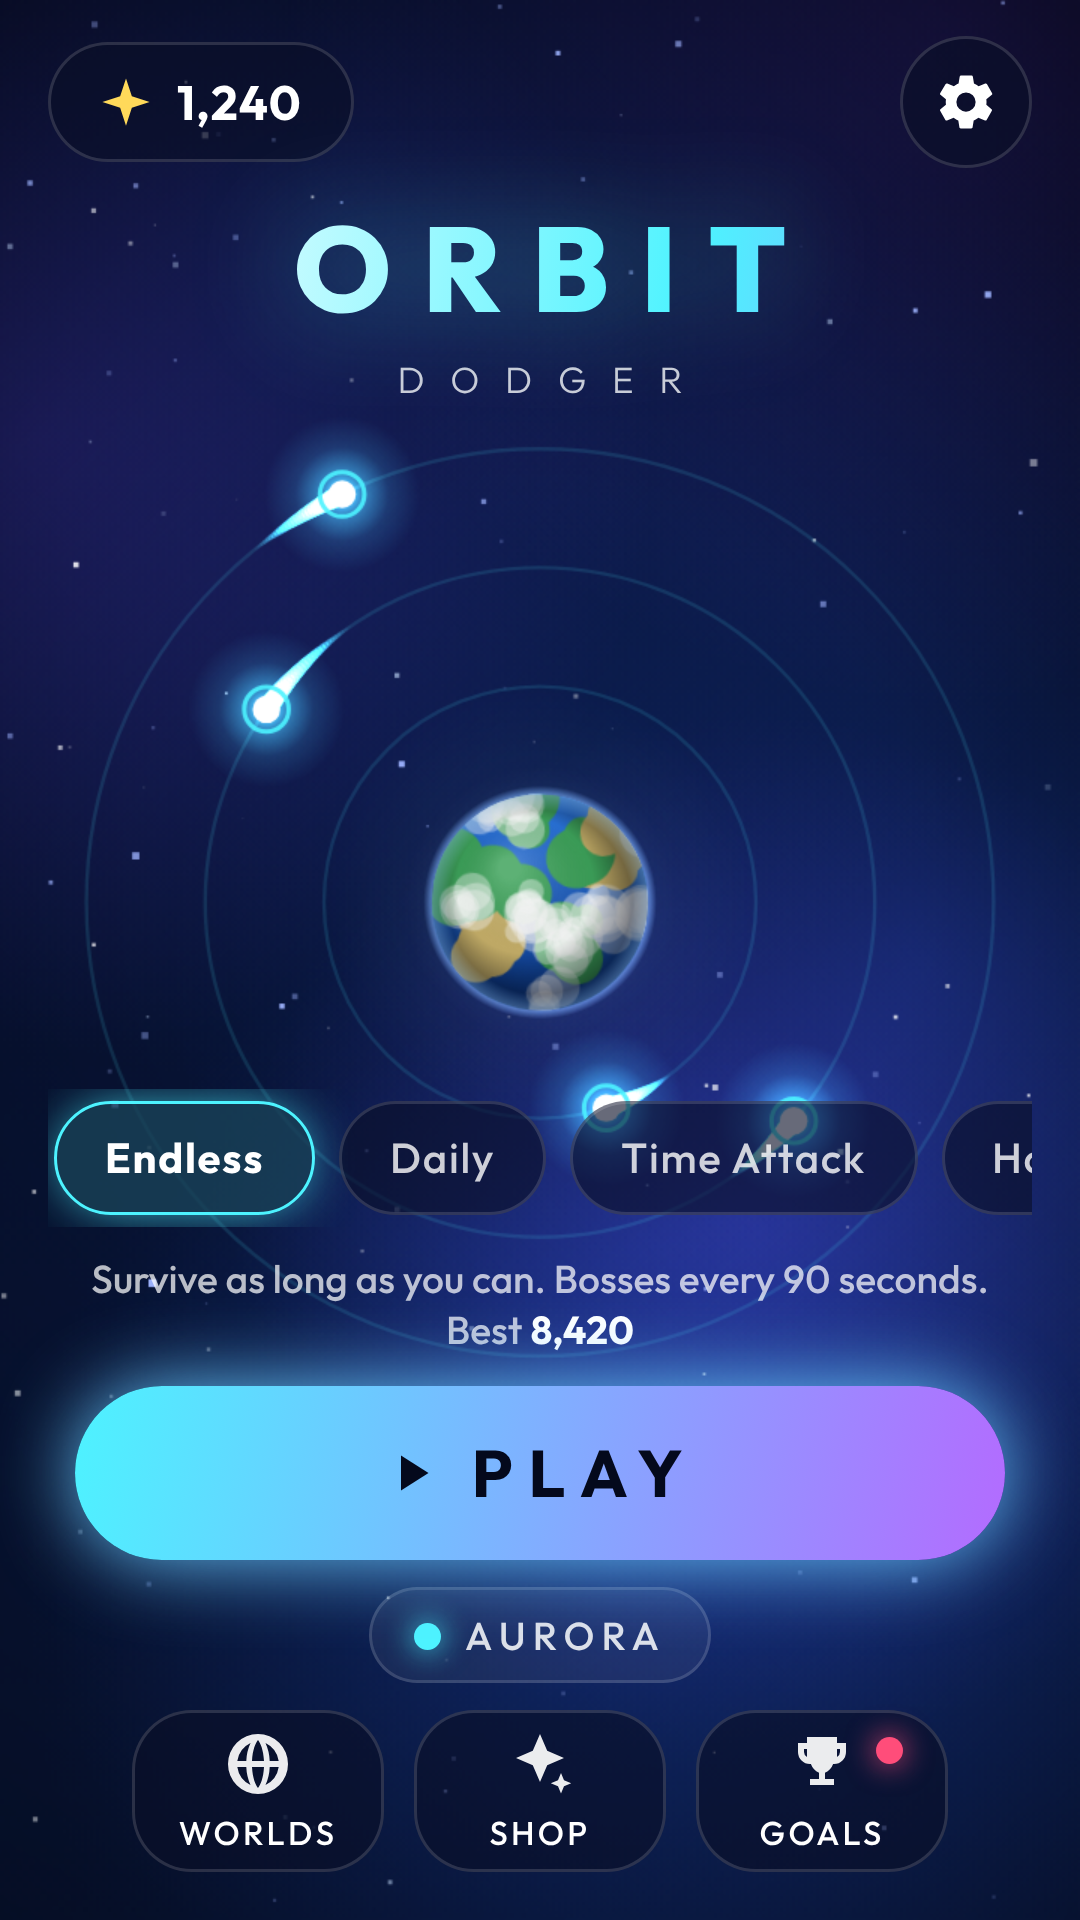
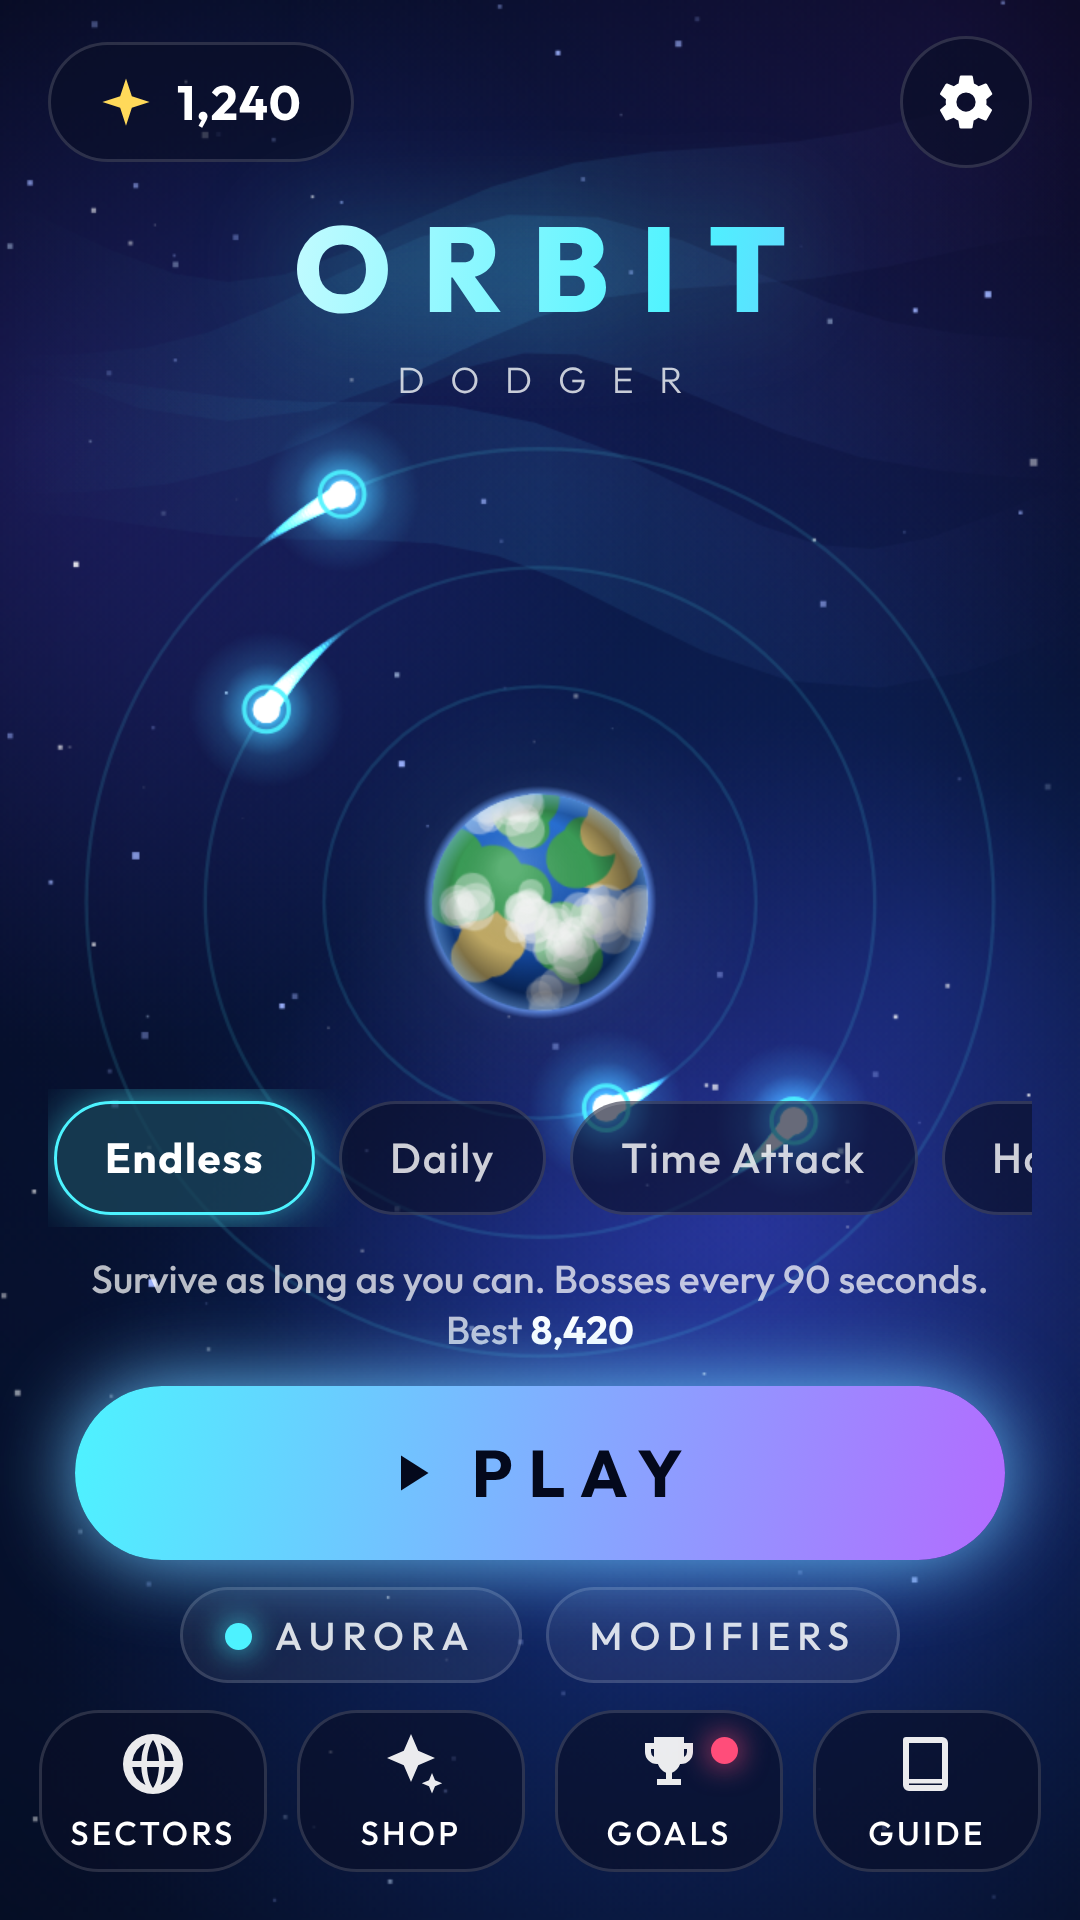
Docs, store listing, screenshots and music brief updated for sectors, planet hopping, events and modifiers
Claude-Session: https://claude.ai/code/session_016cK1Un3U2vpZFvp4VDKec1

Changed region(s): [[0.0611, 0.8125, 0.9167, 0.9688], [0.3667, 0.0938, 0.6417, 0.2188], [0.2444, 0.1875, 0.3056, 0.2188]]

diff --git a/docs/MUSIC_BRIEF.md b/docs/MUSIC_BRIEF.md
@@ -16,11 +16,8 @@ and the music gets more intense as your combo grows.
   first-beat offset, key and loudness over time, and wire it up.
 
 ## Tracks
-Keep the BPM and key close to these (I will measure the real values; they do not need to be perfect).
-
-### 1. Aurora (home world, calm start) : 108 BPM, A minor
-Style: `instrumental, synthwave, dreamy space electronic, 108 BPM, A minor, steady four-on-the-floor kick, soft pulsing bass, shimmering arpeggios, airy pads, hopeful, cinematic, strict tempo, no vocals`
-Lyrics box:
+One per sector. Keep the BPM and key close to these (the tool measures the real values; they do not need to be exact).
+Use this structure in the Lyrics box for each (adjust the first line):
 ```
 [Instrumental]
 [Intro - pads only, 8 bars]
@@ -32,24 +29,26 @@ Lyrics box:
 [Outro - fade to pads, 8 bars]
 ```
 
-### 2. Ember : 118 BPM, G minor
-Style: `instrumental, dark synthwave, driving analog bass, pulsing sequenced arpeggio, tense, volcanic, warm distorted synth stabs, 118 BPM, G minor, tight punchy drums, strict tempo, no vocals`
-Lyrics box: same structure as above.
+### 1. Aurora Reach (peaceful start): 108 BPM, A minor  -> `aurora`
+`instrumental, synthwave, dreamy space electronic, 108 BPM, A minor, steady four-on-the-floor kick, soft pulsing bass, shimmering arpeggios, airy pads, hopeful, cinematic, strict tempo, no vocals`
 
-### 3. Glacier : 114 BPM, C major
-Style: `instrumental, glacial electronic, crystalline bell arpeggios, glassy pads, clean sub bass, light crisp percussion, cold and serene, 114 BPM, C major, strict tempo, no vocals`
+### 2. Dust Belt (easy): 112 BPM, F minor pentatonic  -> `dust`
+`instrumental, dusty desert electronica, rolling percussion with shakers and toms, warm analog bass, plucked arpeggio, wide reverb pads, restless and adventurous, 112 BPM, F minor, strict tempo, no vocals`
 
-### 4. Void : 124 BPM, E minor
-Style: `instrumental, dark techno, hypnotic rolling sub bass, industrial percussion, eerie synth drones, minimal melodic motifs, menacing, 124 BPM, E minor, strict tempo, no vocals`
+### 3. Ember Rift (risky): 118 BPM, G minor  -> `ember`
+`instrumental, dark synthwave, driving analog bass, pulsing sequenced arpeggio, tense, volcanic, warm distorted synth stabs, 118 BPM, G minor, tight punchy drums, strict tempo, no vocals`
 
-### 5. Nebula (planned world) : 112 BPM, D dorian
-Style: `instrumental, psychedelic electronica, swirling modulated synths, warm bass, glittering arpeggios, wide stereo pads, colorful and dreamy, 112 BPM, D dorian, strict tempo, no vocals`
+### 4. Glacier Drift (risky): 114 BPM, C major  -> `glacier`
+`instrumental, glacial electronic, crystalline bell arpeggios, glassy pads, clean sub bass, light crisp percussion, cold and serene, 114 BPM, C major, strict tempo, no vocals`
 
-### 6. Solaris (planned world) : 126 BPM, F lydian
-Style: `instrumental, uplifting trance-influenced electronic, bright supersaws, pumping bass, euphoric but clean arpeggios, radiant, 126 BPM, F lydian, strict tempo, no vocals`
+### 5. Pulsar Storm (dangerous): 126 BPM, D minor  -> `pulsar`
+`instrumental, high-energy electro trance, pounding kick, electric sequenced arpeggios, crackling risers, urgent and stormy, bright saw leads in short phrases, 126 BPM, D minor, strict tempo, no vocals`
 
-### 7. Menu theme : 90 BPM, any minor key
-Style: `instrumental, ambient space music, slow evolving pads, soft bell melody, no drums, calm, 90 BPM, loopable, no vocals`
+### 6. Void Maw (deadly): 124 BPM, E minor  -> `void`
+`instrumental, dark techno, hypnotic rolling sub bass, industrial percussion, eerie synth drones, minimal melodic motifs, menacing, 124 BPM, E minor, strict tempo, no vocals`
+
+### 7. Menu theme: 90 BPM, any minor key  -> `menu`
+`instrumental, ambient space music, slow evolving pads, soft bell melody, no drums, calm, 90 BPM, loopable, no vocals`
 
 ### Optional extras
 * **Boss intensity** (Eclipse): for each track, a 60 second take with `same style, much more intense, heavy kick and bass, rising tension` at the same BPM and key, so it can be layered over the main track.

diff --git a/docs/STORE_LISTING.md b/docs/STORE_LISTING.md
@@ -2,38 +2,35 @@
 
 **App name (30):** Orbit Dodger: One-Tap Arcade
 
-**Short description (80):** Circle the planet. Flip, jump, graze. A beautiful one-thumb space dodger.
+**Short description (80):** Circle planets, hop between worlds, graze debris. A beautiful one-thumb space dodger.
 
 **Full description (4000):**
 
 ORBIT DODGER is a one-thumb arcade game about the most satisfying thing in space: staying alive.
 
-You are a glowing dot circling a planet. TAP to flip direction. HOLD to slow time and charge a jump to the next orbit. Release on the golden glow for a SLINGSHOT boost. Dodge asteroids, comets, pulsing mines, rotating rings and black holes, all synced to a soundtrack that builds with your combo.
+You are a glowing dot circling a planet. TAP to flip direction. HOLD to slow time, SLIDE up or down to pick a bigger or tighter orbit, and release on the golden glow for a SLINGSHOT boost. Dodge asteroids, comets, pulse mines, wall rings, spinning blades, lasers and gravity wells, all synced to music that builds with your combo.
 
-THE LOOP THAT KEEPS YOU PLAYING
-- GRAZE debris to build a combo up to x8 and score big
-- Five grazes ignite NOVA: smash through everything for a few glorious seconds
-- Collect stardust and power-ups: shield, slow-mo, magnet, phase
-- Survive the Eclipse boss rings that appear every 90 seconds
-- Instant restarts. One more run is always one tap away
+IT KEEPS CHANGING
+- Whole planets drift past. Jump from your outer orbit to theirs and they become your new home: the camera zooms in, your old planet drifts away, and the new planet's type changes the rules (breathing orbits, slippery ice, night, storms, lava) and boosts your score
+- Rare cosmic events: meteor showers, solar flares, gas giants with gravity assists, black holes that bend your orbit, supernovas you survive by hiding in the planet's shadow
+- Every new element is introduced one at a time with a short explanation, and collected in your Field Guide
+- Speed builds in milestones, with small rewards for everything done well: near misses, razor-thin passes, chains, clutch flips, perfect slingshots
 
-FOUR WORLDS, FOUR SOUNDTRACKS
-Aurora, Ember, Glacier and Void each have their own palette, tempo, hazards and music. Unlock each by beating a score in the one before.
+SIX SECTORS OF SPACE
+From the peaceful Aurora Reach to the deadly Void Maw. Each sector has its own look, music, rules, bonuses and dangers.
 
-FIVE MODES
-Endless, Daily Challenge (same layout for everyone, build a streak), Time Attack (60 seconds), Hardcore (no safety nets, double score) and Zen (no danger, just vibes).
+FIVE MODES AND MODIFIERS
+Endless, Daily Challenge (same layout for everyone, build a streak), Time Attack, Hardcore and Zen. Stack up to two modifiers (Swift, Night Run, Heavy, Volatile, Lucky, Chill, Glass) for a bigger score multiplier.
 
 MAKE IT YOURS
-Earn stardust and unlock trails, planets and debris styles: Comet, Prism, Glitch, Saturnine, Eclipse, Crystal and more. Race the ghost of your best run. Share a clip of your best moments.
-
-31 goals reward you for mastering every trick.
+Earn stardust and unlock 36 cosmetics: trails, cores, auras, orbit styles, debris, skies and burst effects. Race the ghost of your best run. Share a clip of your best moments. 38 goals to chase.
 
 FAIR AND SIMPLE
-- Free demo: play the first minute of Aurora
-- One-time unlock of the full game. No ads, no subscriptions, no energy timers, no in-app purchases beyond that
+- Free demo: 5 complete runs
+- One-time unlock of the full game. No ads, no subscriptions, no energy timers, no other purchases
 - Works fully offline. Collects no personal data
 
 **Category:** Games > Arcade   **Tags:** arcade, casual, one-touch, space, offline, music
 **Contact email:** (your support email)   **Price:** Free download + one-time in-app unlock US$1.99 (`orbit_full_unlock`)
 
-**What's new (v1.0.0):** Launch! Four worlds, five modes, 17 cosmetics and 31 goals.
+**What's new (v1.0.0):** Launch! Six sectors, planet hopping, cosmic events, five modes, modifiers, 36 cosmetics and 38 goals.

diff --git a/README.md b/README.md
@@ -2,10 +2,12 @@
 
 A one-thumb arcade game for Android. You are a dot circling a planet: **tap** to flip direction, **hold** to slow time and **release on the golden glow** to jump orbits. Graze debris to build a combo, ignite NOVA, survive boss rings.
 
-* 4 worlds with their own procedural soundtracks, 5 modes (Endless, Daily, Time Attack, Hardcore, Zen)
-* Beat-synced hazards: asteroids, comets, pulsing mines, rotating rings, sweeping beams, black holes
-* Power-ups, combo system, ghost replay of your best run, clip sharing, 31 goals, 17 unlockable cosmetics
-* Free demo (first minute of Aurora) + **one-time US$1.99 unlock** via Google Play Billing. No ads, offline, no data collected
+* 6 sectors of space (peaceful to deadly) with their own rules, bonuses, dangers and music; 5 modes plus stackable modifiers
+* Planet hopping: other planets drift in with their own orbits, jump across and they become your home (each type changes the rules)
+* Rare cosmic events (meteor showers, solar flares, gas giants, black holes, supernovas), spinners, wall rings, mines, comets, lasers
+* Beat-synced gameplay (procedural music or your own tracks), one new element introduced per run with a popup and a Field Guide
+* Power-ups, near-miss rewards and chains, ghost replay, clip sharing, 38 goals, 36 unlockable cosmetics
+* Free demo of 5 runs + **one-time US$1.99 unlock** via Google Play Billing. No ads, offline, no data collected
 
 ## Tech
 HTML5 canvas + Web Audio (all art and music are generated in code, no asset pipeline) wrapped as a native Android app with Capacitor.
@@ -24,6 +26,7 @@ npm install
 npm run serve            # http://localhost:8123  (add ?unlock=1 for the full game, ?debug for dev hooks)
 npm test                 # headless end-to-end smoke test (needs: npx playwright install chromium)
 npm run apk              # debug APK  -> android/app/build/outputs/apk/debug/
+npm run music            # analyse tracks from assets/music into www/audio (see docs/MUSIC_BRIEF.md)
 npm run aab              # signed release bundle (see docs/PUBLISHING.md)
 ```
 

diff --git a/docs/PUBLISHING.md b/docs/PUBLISHING.md
@@ -31,7 +31,7 @@ npm run aab          # -> android/app/build/outputs/bundle/release/app-release.a
 Add these repository secrets: `ORBIT_KEYSTORE_BASE64` (`base64 -w0 orbit-upload.jks`), `ORBIT_KEYSTORE_PASSWORD`, `ORBIT_KEY_ALIAS`, `ORBIT_KEY_PASSWORD`. Run the **Android build** workflow; it uploads the signed `.aab` (and a debug `.apk`) as artifacts.
 
 ## 5. Create the app in Play Console
-1. **Create app** -> App, **Game**, **Paid**? **No: choose Free.** The game is free to download; the full version is an in-app product. (A free app cannot be switched to paid later, and this is what makes the free demo work.)
+1. **Create app** -> App, **Game**, **Paid**? **No: choose Free.** The game is free to download with 5 free runs; the full version is an in-app product. (A free app cannot be switched to paid later, and this is what makes the free demo work.)
 2. **Store listing**: copy text from `docs/STORE_LISTING.md`. Upload `store/icon-512.png`, `store/feature-graphic-1024x500.png`, and the phone screenshots in `store/screenshots/`.
 3. **Privacy policy**: host `docs/privacy-policy.md` (GitHub Pages works) and paste the URL.
 4. **App content**: Data safety = *no data collected, no data shared*. Ads = *No ads*. Content rating questionnaire = no violence beyond abstract arcade action (expect PEGI 3 / Everyone). Target audience 13+ (or all ages; there is no user-generated content).
